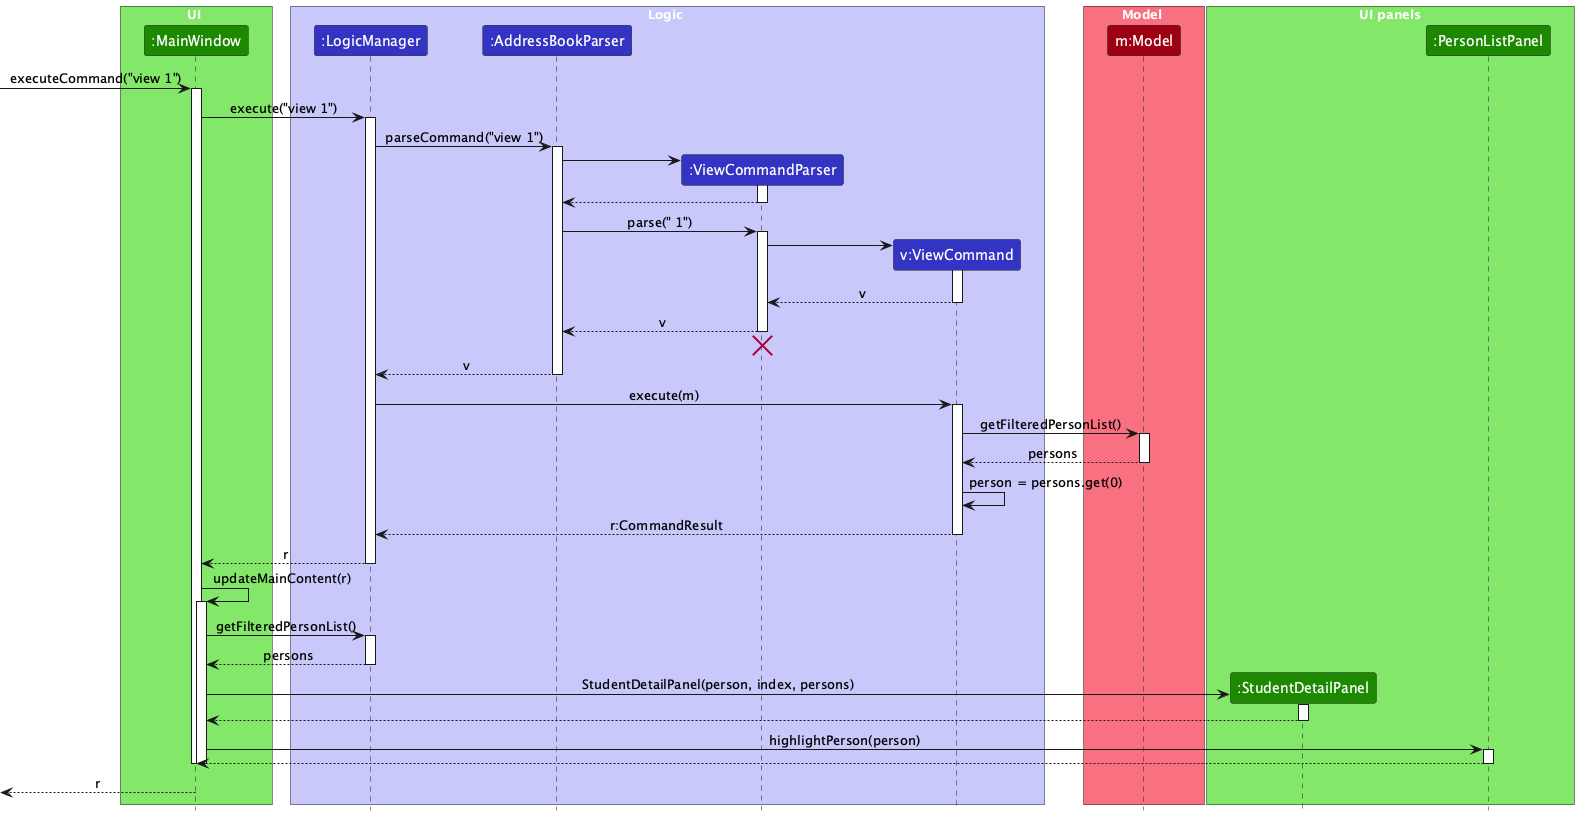
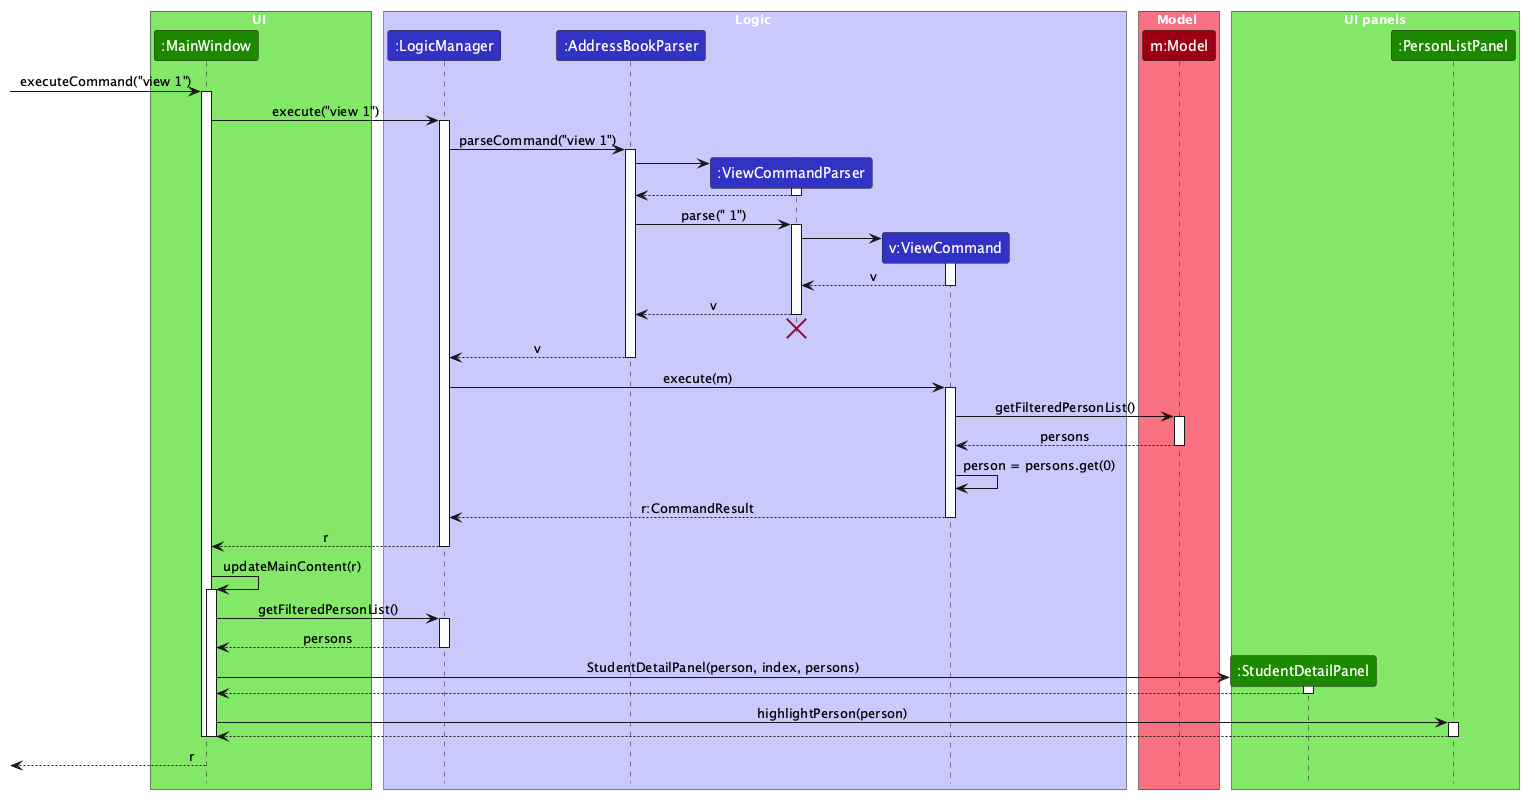
Developer Guide: Fix view sequence diagram

diff --git a/docs/DeveloperGuide.md b/docs/DeveloperGuide.md
@@ -167,6 +167,9 @@ The `view INDEX` command passes the selected student from `Logic` to the detail 
 
 <img src="images/ViewStudentDetailSequenceDiagram.png" width="1000" />
 
+<div markdown="span" class="alert alert-info">:information_source: **Note:** The lifeline for `ViewCommandParser` should end at the destroy marker (X), but due to a limitation of PlantUML, it extends slightly past the center of the marker.
+</div>
+
 The diagram omits the routine `Storage#saveAddressBook` call that `LogicManager` makes after command execution. The `view` command does not change the data being saved.
 
 1. `AddressBookParser` delegates the index argument to `ViewCommandParser`, which creates a `ViewCommand`.
